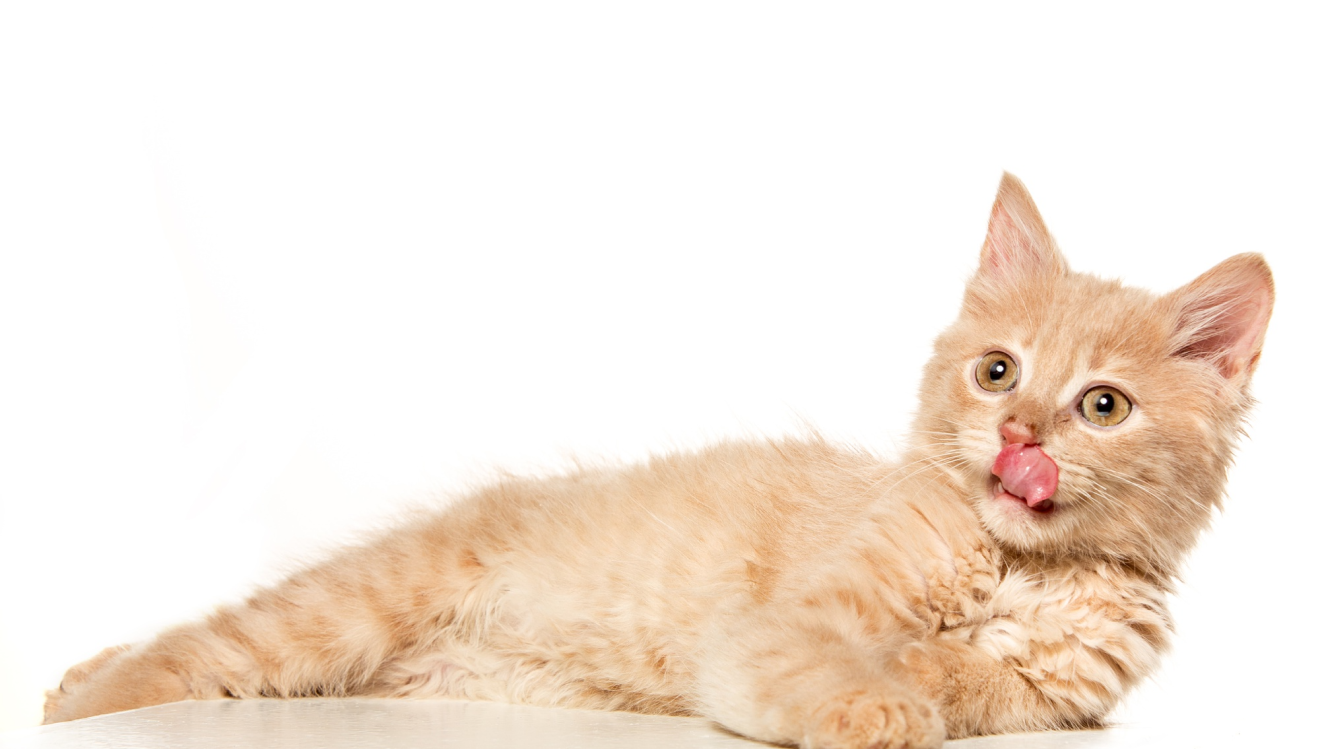
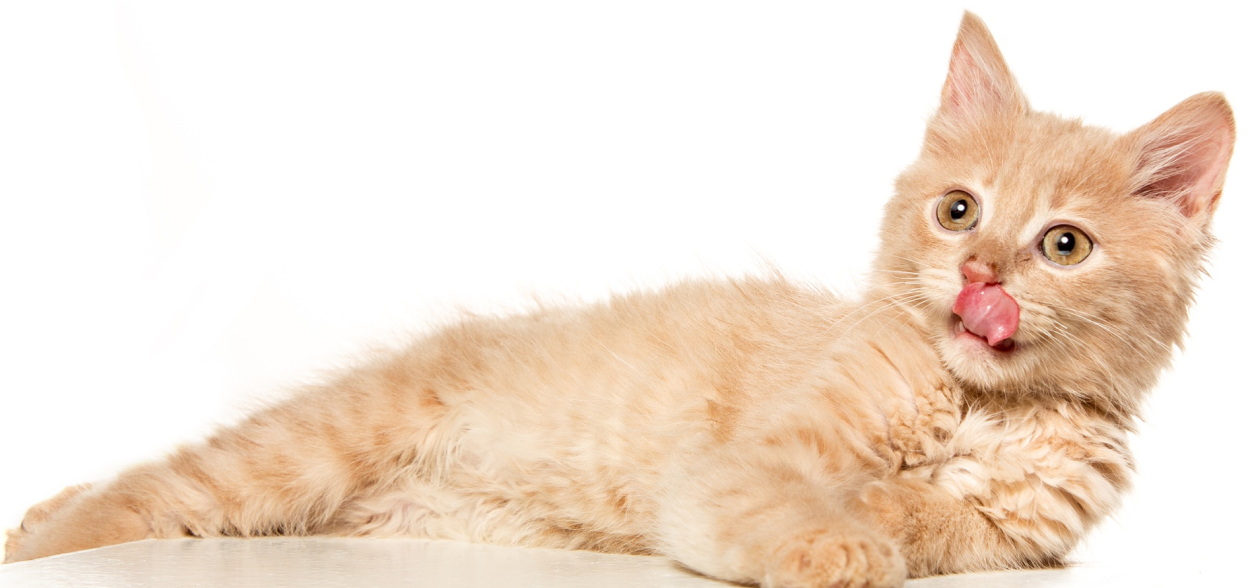
final version

Changed region(s): [[0.0, 0.0, 1.0, 1.0], [0.5, 0.7653, 0.5312, 0.7959]]

diff --git a/index.html b/index.html
@@ -21,7 +21,7 @@
   <body>
     <header>
       <nav
-        class="border lg:border-0 md:border-0 bg-[#FFF9F4] flex justify-between font-[Sora] lg:pl-30 lg:pr-30 gap-5 pt-4 pb-4 w-[100%]"
+        class=" p-4 border lg:border-0 md:border-0 bg-[#FFF9F4] flex justify-between font-[Sora] lg:pl-30 lg:pr-30 gap-5 pt-4 pb-4 w-[100%]"
       >
         <div class="flex justify-center items-center gap-2 text-[6]">
           <img src="assets/logo-header.png" alt="header logo" />
@@ -83,8 +83,8 @@
         />
       </nav>
       <!-- Banner section -->
-      <section class="lg:ml-30 lg:mr-30 mb-30">
-        <div class="bg-[url('/assets/cat-big.png')] h-180 mb:50 sm:bg-cover">
+      <section class="lg:ml-30 lg:mr-30 lg:mb-30">
+        <div class=" h-180 lg:mb:50">
           <h1 class="font-[Sora] text-5xl font-bold w-140 h-40 mt-21">
             Pamper Your Pet, Because They Deserve the Best
           </h1>
@@ -100,40 +100,48 @@
             Find a pet
           </button>
         </div>
+        <div class="absolute x-10 -mt-104 mb-4 lg:mb-50">
+          <img src="assets/cat-big.png" alt="cat">
+        </div>
       </section>
+       <!-- Extra section -->
+       <section class="mt-2 lg:mt-50 -mb-30 font-[Sora]">
+        <marquee class="bg-[#F9DF8A]" height="25"direction="left">Cats</marquee>
+        <marquee class="bg-[#FFDC26]" height="25"direction="right">Dogs</marquee>
+           </section>
       <!-- category section -->
-      <section class="lg:ml-30 lg:mr-30 font-[Sora] mb-35">
-        <h2 class="font-[Sora] text-2xl font-bold w-90 h-15 mt-21">
+      <section class="flex flex-col lg:ml-30 lg:mr-30 font-[Sora] mb-35 mt-0 lg:mt-20">
+        <h2 class="font-[Sora] text-2xl font-bold w-90 h-15 mt-30">
           Browse By Categories
         </h2>
         <!-- cardbox start here -->
-        <div class="flex gap-4 justify-between">
-          <div class="bg-[#F9DF8A] rounded-xl w-55 h-65 flex flex-col p-10 flex items-center">
+        <div class="flex gap-2 justify-between flex-wrap">
+          <div class="bg-[#F9DF8A] rounded-xl w-50 h-65 flex flex-col p-10 flex items-center">
             <img class="bg-white rounded-full p-7" src="assets/dog-cartoon.png" alt="dog" />
             <p class="mt-4 mb-3 text-xl font-semibold">Dog</p>
             <p>3 Items</p>
           </div>
-          <div class="bg-[#F9DF8A] rounded-xl w-55 h-65 flex flex-col p-10 flex items-center">
+          <div class="bg-[#F9DF8A] rounded-xl w-50 h-65 flex flex-col p-10 flex items-center">
             <img class="bg-white rounded-full p-7" src="assets/fish-cartoon.png" alt="dog" />
             <p class="mt-4 mb-3 text-xl font-semibold">Fish</p>
             <p>3 Items</p>
           </div>
-          <div class="bg-[#F9DF8A] rounded-xl w-55 h-65 flex flex-col p-10 flex items-center">
+          <div class="bg-[#F9DF8A] rounded-xl w-50 h-65 flex flex-col p-10 flex items-center">
             <img class="bg-white rounded-full p-7" src="assets/cat-cartoon.png" alt="dog" />
             <p class="mt-4 mb-3 text-xl font-semibold">Cat</p>
             <p>3 Items</p>
           </div>
-          <div class="bg-[#F9DF8A] rounded-xl w-55 h-65 flex flex-col p-10 flex items-center">
+          <div class="bg-[#F9DF8A] rounded-xl w-50 h-65 flex flex-col p-10 flex items-center">
             <img class="bg-white rounded-full p-7" src="assets/bird-cartoon.png" alt="dog" />
             <p class="mt-4 mb-3 text-xl font-semibold">Birds</p>
             <p>3 Items</p>
           </div>
-          <div class="bg-[#F9DF8A] rounded-xl w-55 h-65 flex flex-col p-10 flex items-center">
+          <div class="bg-[#F9DF8A] rounded-xl w-50 h-65 flex flex-col p-10 flex items-center">
             <img class="bg-white rounded-full p-7" src="assets/mouse-cartoon.png" alt="dog" />
             <p class="mt-4 mb-3 text-xl font-semibold">Small Pet</p>
             <p>3 Items</p>
           </div>
-          <div class="bg-[#F9DF8A] rounded-xl w-55 h-65 flex flex-col p-10 flex items-center">
+          <div class="bg-[#F9DF8A] rounded-xl w-50 h-65 flex flex-col p-10 flex items-center">
             <img class="bg-white rounded-full p-7" src="assets/rabbit-cartoon.png" alt="dog" />
             <p class="mt-4 mb-3 text-xl font-semibold">Rabit</p>
             <p>3 Items</p>
@@ -148,7 +156,7 @@
         <h2 class="text-2xl font-bold text-black mb-6">Popular Products</h2> 
         <div class="grid grid-cols-1 md:grid-cols-4 gap-6"> 
           <!-- Offer Card --> 
-          <div class="bg-[#F9DF8A] rounded-2xl p-6 shadow-lg pr-20"> 
+          <div class="w-[90%] bg-[#F9DF8A] rounded-2xl p-6 shadow-lg pr-20"> 
             <h3 class="text-xl font-bold text-black">T-shirt For Dogs </h3> 
             <p class="text-black mt-4"> 
                 Discover a world of treats, toys and essentials handpicked for
@@ -318,8 +326,8 @@
     <!-- Everyday section start here --> 
     <section class="lg:ml-30 lg:mr-30 font-[Sora] mt-30">
         <h1 class="text-2xl font-bold text-black">Everyday low Price</h1>
-        <div class="flex flex-col gap-20 justify-between lg:flex-row mt-5">
-        <div class="flex items-center bg-linear-to-r from-[#F8CCFB] to-[#ACD2FD] pl-20 rounded-xl w-200">
+        <div class="flex flex-col gap-20 justify-between lg:flex-row mt-5 ml-5 lg:ml-0">
+        <div class="flex items-center bg-linear-to-r from-[#F8CCFB] to-[#ACD2FD] pl-20 rounded-xl w-95 lg:w-200">
             <div>
                 <p class="text-xs">Under Price</p>
                 <h2 class="font-semibold mt-2">Pet Grooming Mitt</h2>
@@ -332,7 +340,7 @@
             </div>
         </div>
         <div class="bg-linear-to-r from-[#FFF9F4] to-[#F9DF8A] p-10 rounded-xl">
-        <div>
+        <div class=" ml-2 w-90 lg:w-100">
             <h2 class="font-semibold mt-10">T-Shirt for Dogs</h2>
             <p class="text-2xl font-bold mt-4 text-[#FFDC26]">$7.99</p>
         </div>
@@ -344,8 +352,8 @@
     </section>
 </main>
        <!-- Newsletter Section --> 
-         <section class="relative z-10 lg:ml-30 lg:mr-30 font-[Sora] mt-30 -mb-46 border-0 rounded-xl bg-white">
-            <div class="flex flex-col lg:flex-row items-center gap-40 pl-30 bg-white">
+         <section class=" relative z-10 lg:ml-30 lg:mr-30 font-[Sora] mt-30 -mb-46 border-0 rounded-xl bg-white">
+            <div class="flex flex-col lg:flex-row items-center gap-40 pl-30 bg-white rounded-2xl">
                 <div>
                     <img src="assets/cute-pet-mid.png" alt="pet">
                 </div>
@@ -362,7 +370,7 @@
             </div>
          </section>
          <!-- footer section start here -->
-        <footer class="bg-[#F9DF8A] pt-60 pl-30 pr-30 font-[Sora] pb-18">
+        <footer class="bg-[#F9DF8A] p-10 pt-60 lg:pl-30 lg:pr-30 font-[Sora] pb-18">
             <div class="flex flex-col lg:flex-row justify-between">
             <div class="flex flex-col gap-4">
                 <div class="flex gap-5 items-center">
